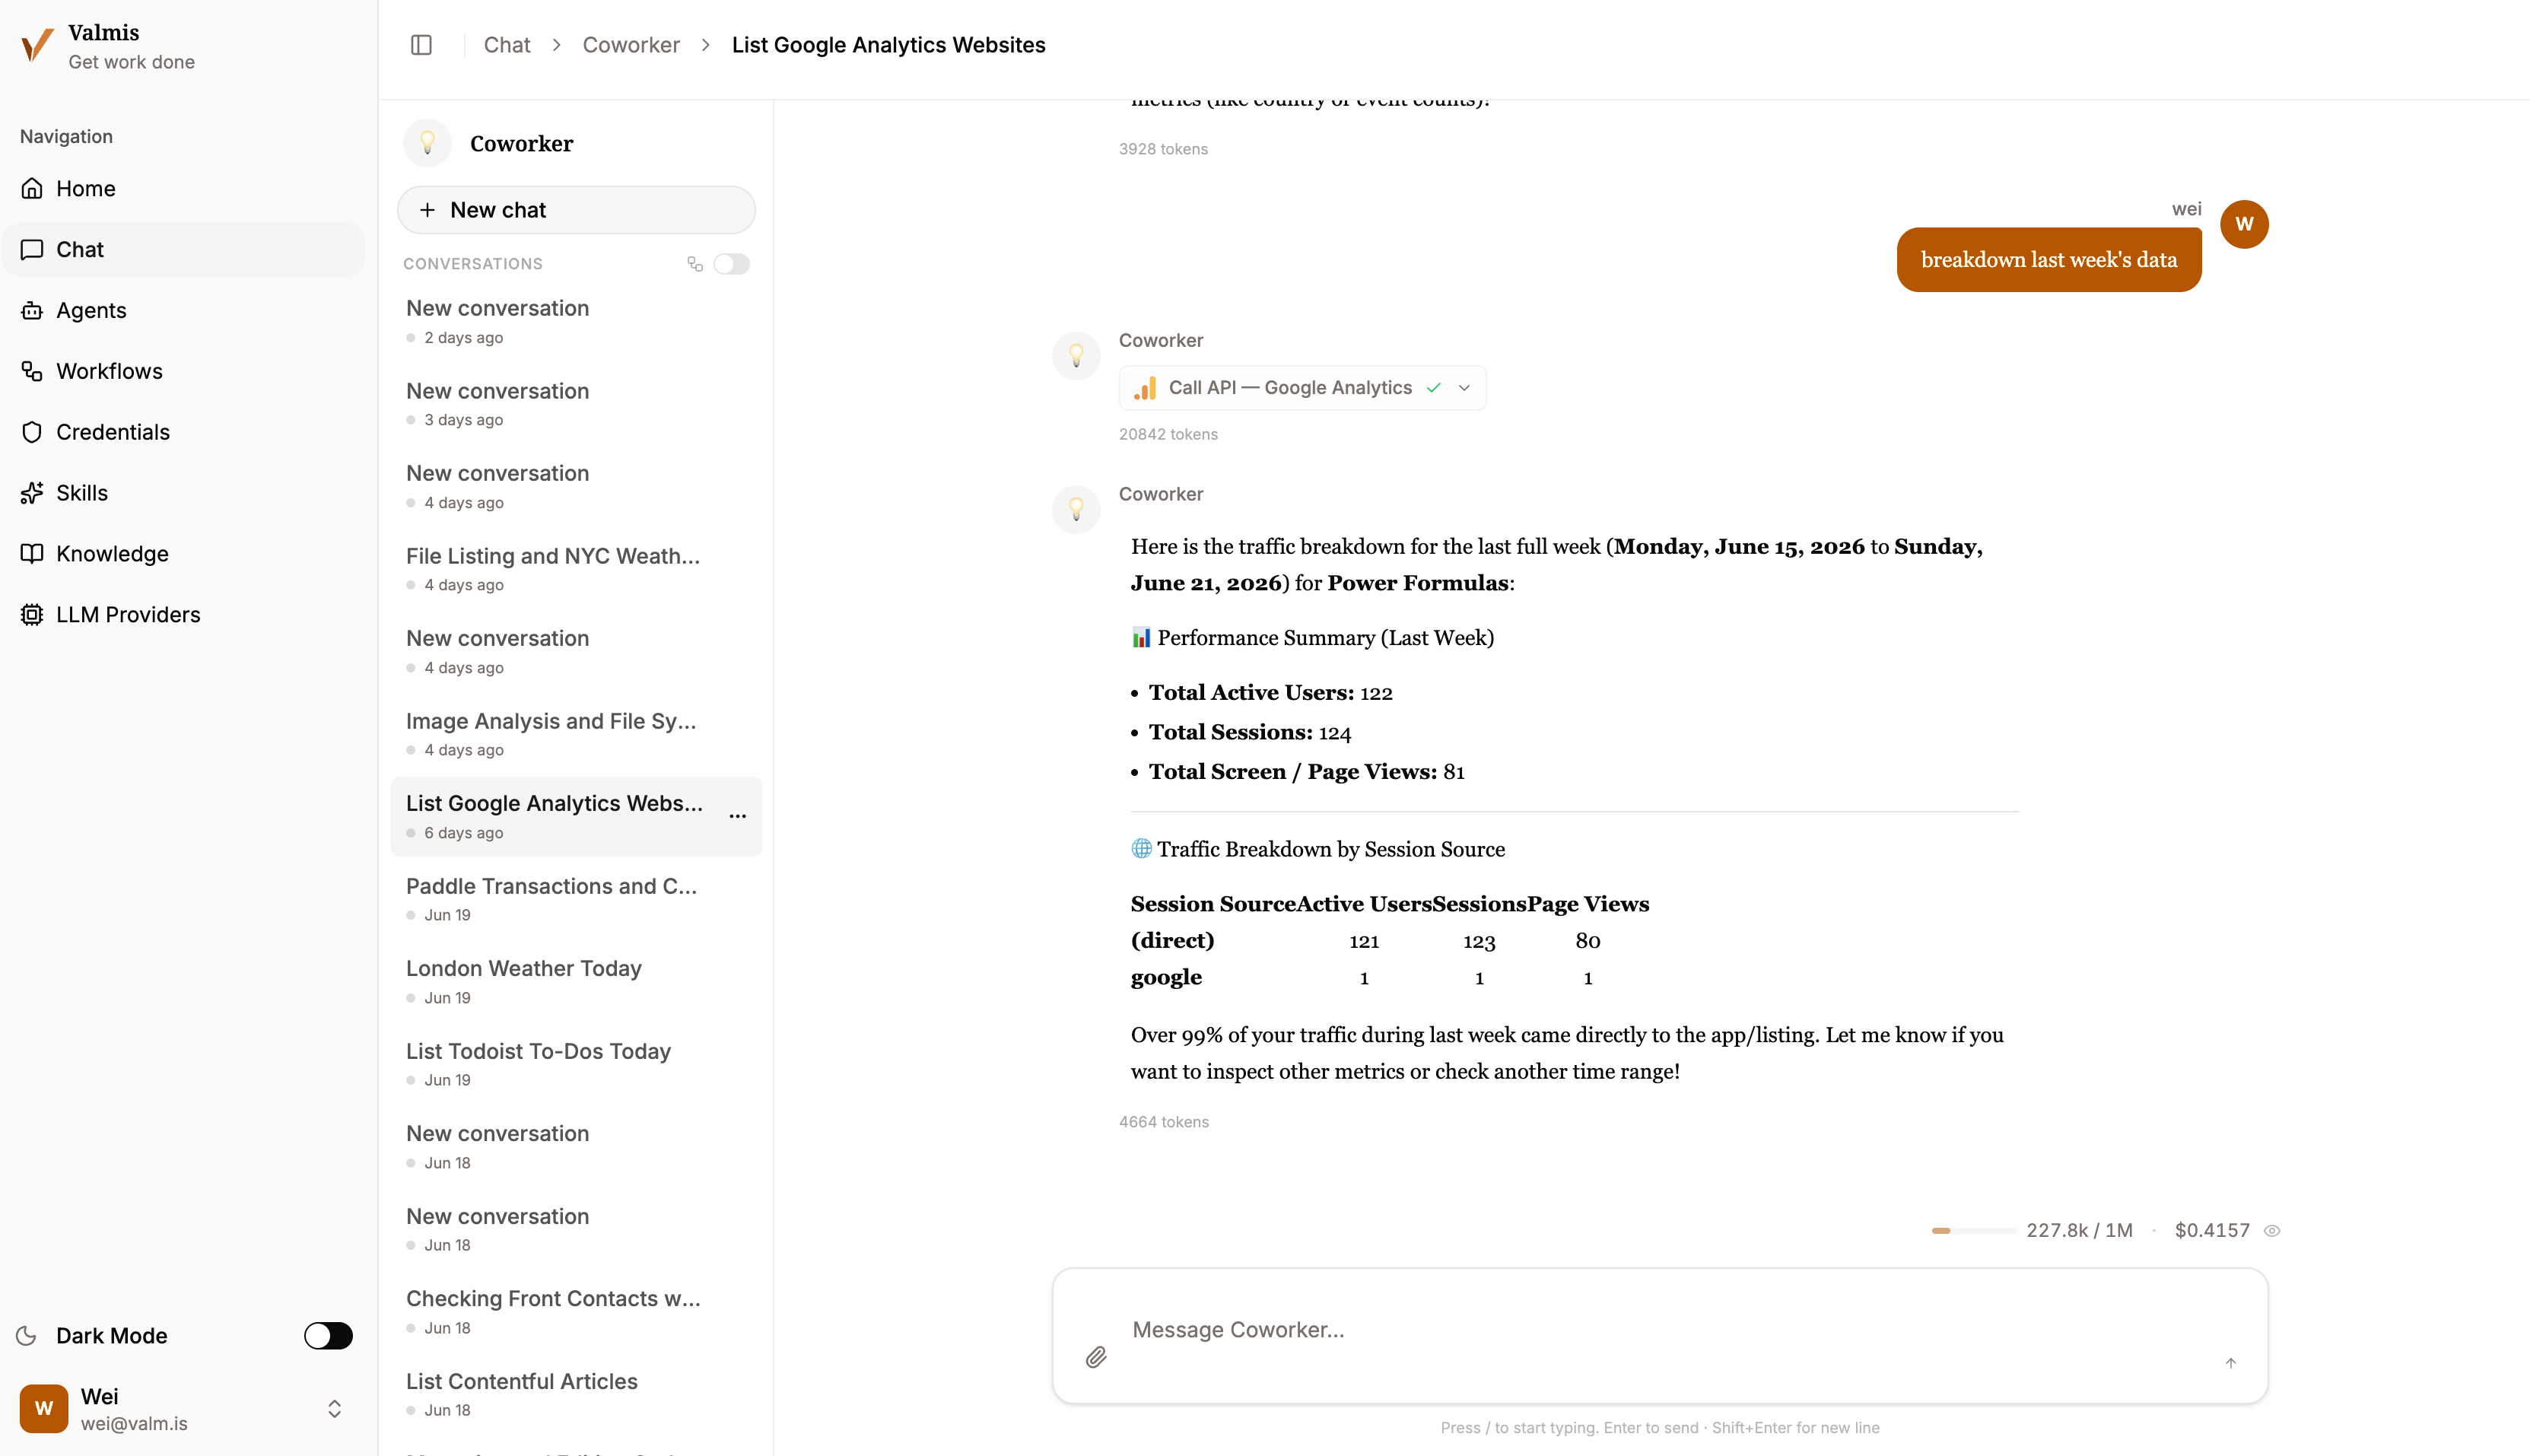
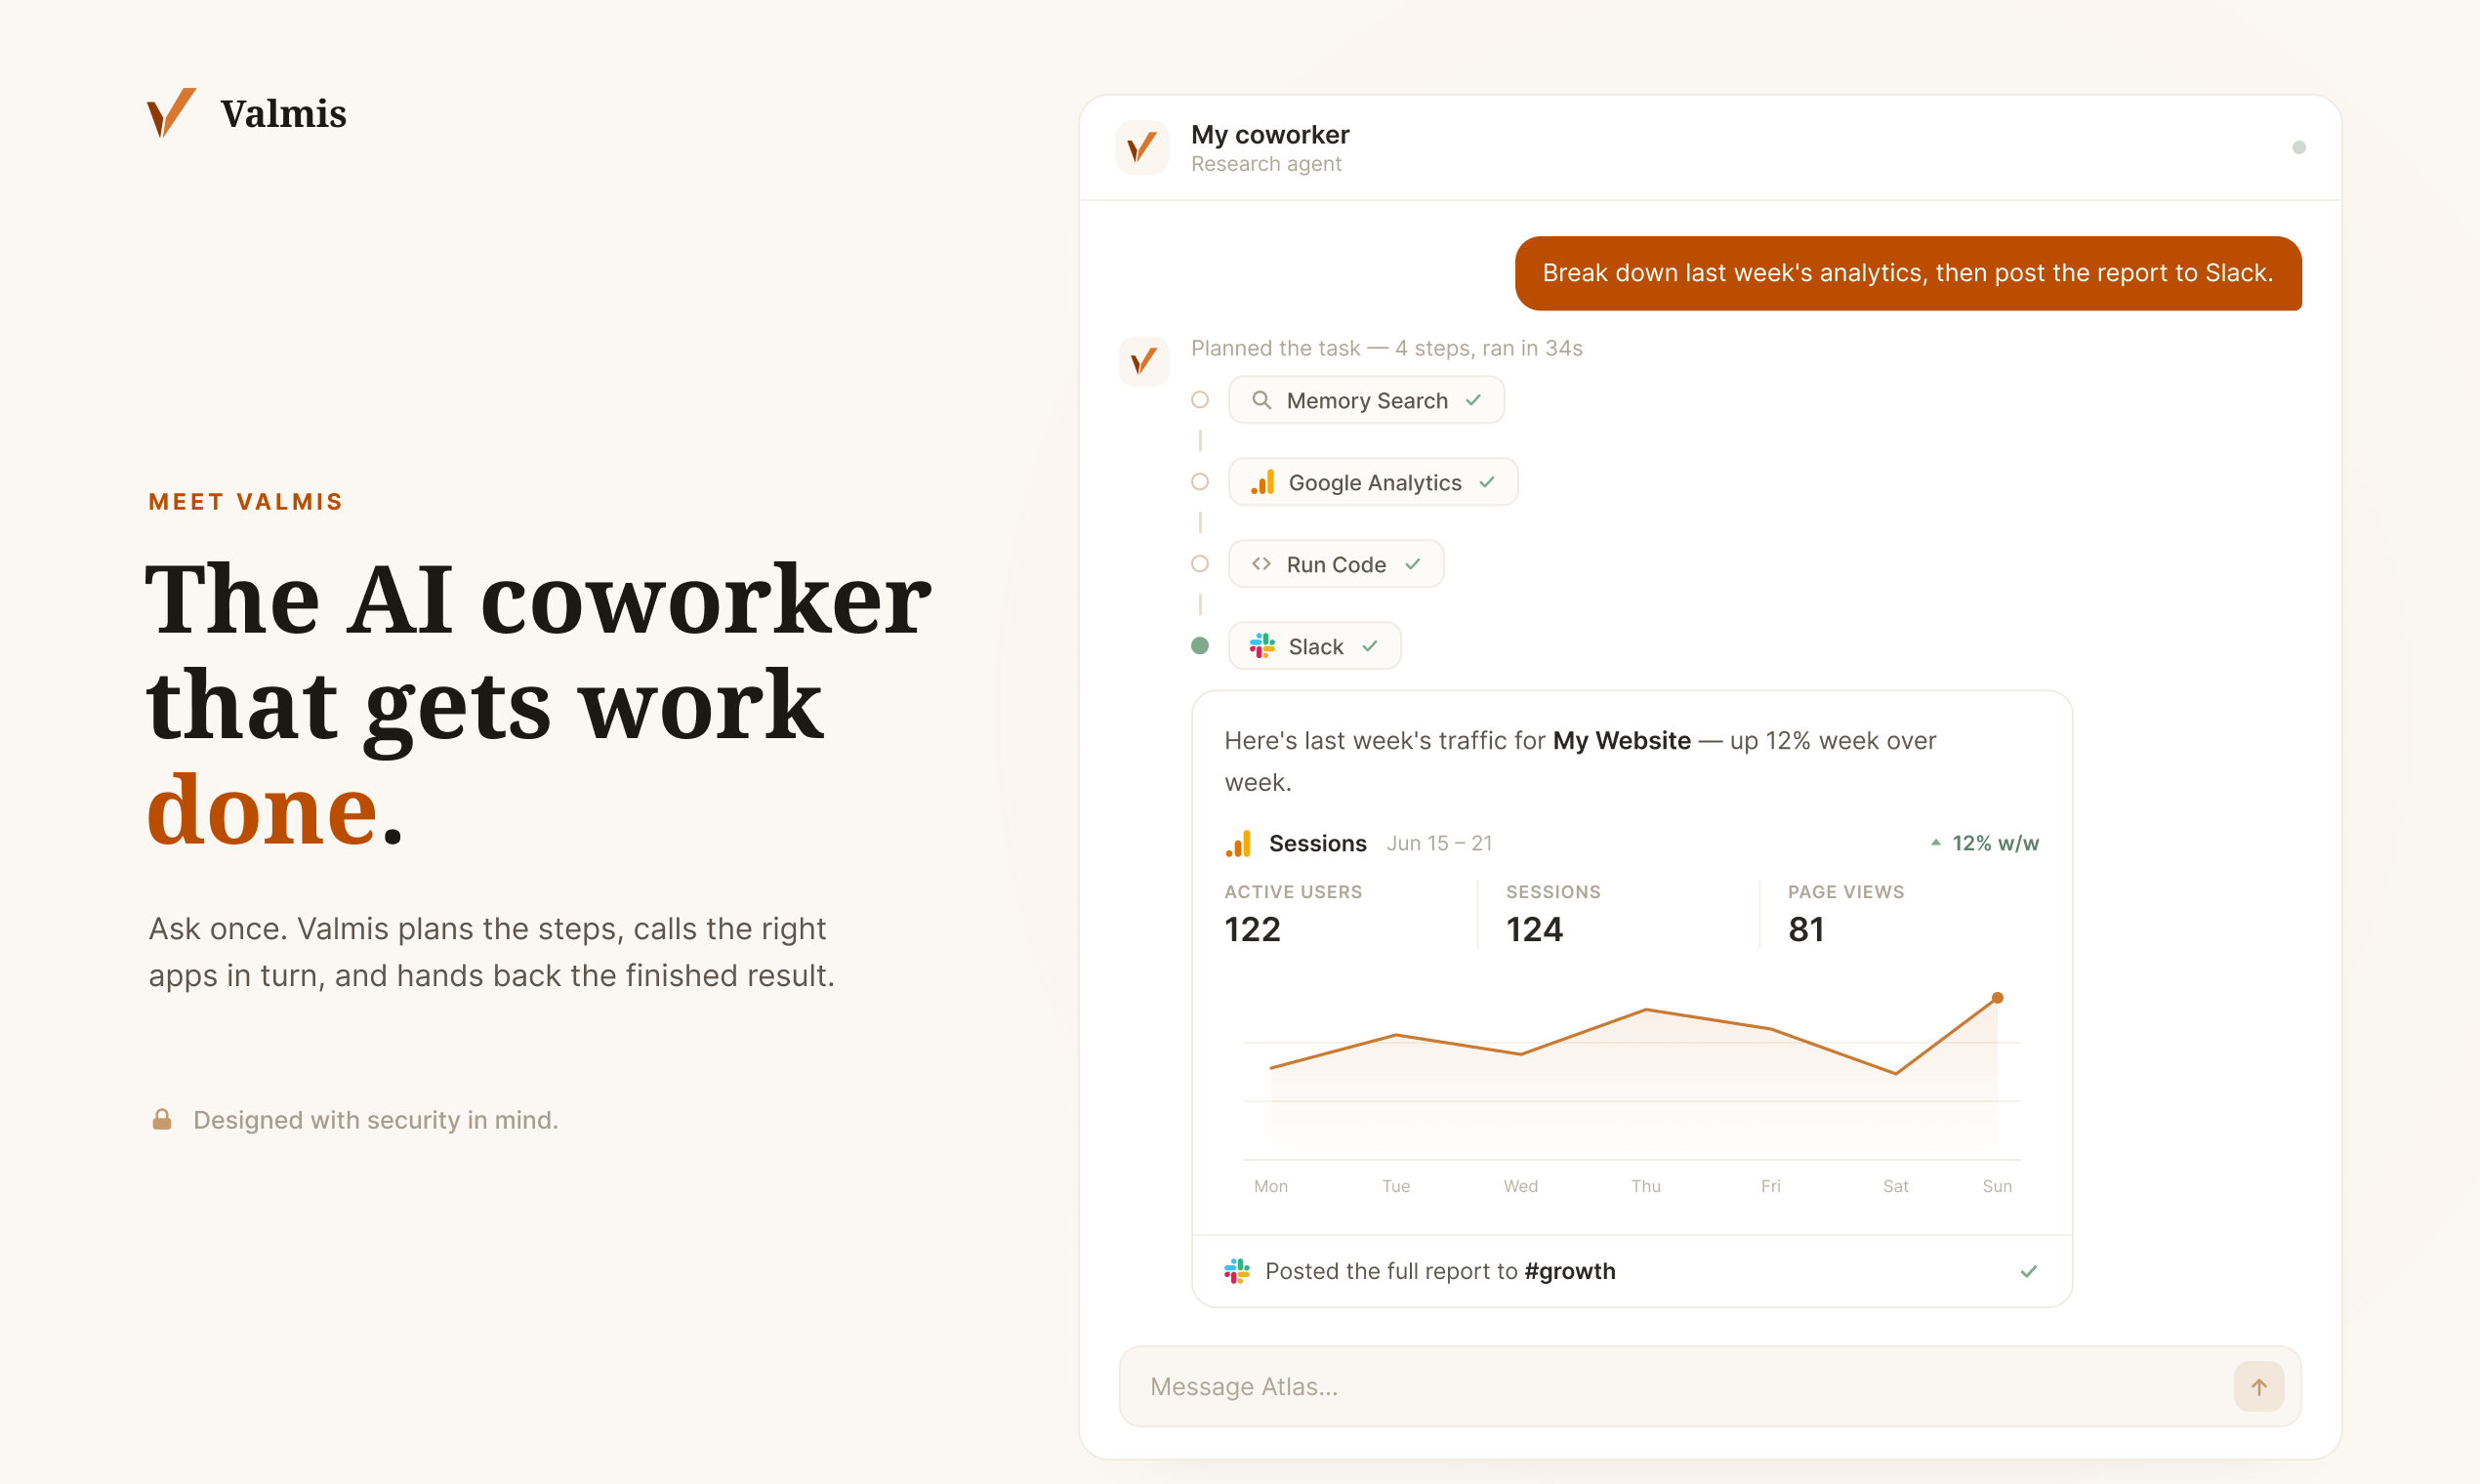
Update readme

diff --git a/README.md b/README.md
@@ -22,7 +22,7 @@ Agents can only work for you when they have access (safely) to your apps. Our pr
 
 Finally, you don't always want to manually ask your agents to work. You can automate multi-step workflows using our automation feature. Each workflow can be triggered by cron, webhooks, app events and it supports conditions and loops. You can create multi-step workflows using our workflow builder UI, or you can simply ask your agent to create one by providing a description.
 
-![alt text](statics/screenshots/workflow-1.png)
+![alt text](statics/screenshots/05-workflow.png)
 
 Then it comes to why the project is called Valmis. Valmis is an Estonian word that means "completed" or "done"(Same in Finnish). This is because the project was inspired and designed in Estonia, Europe's digital nation. It also has the domain name valm.is that uses the Icelandic TLD, so the project is pretty Nordic. (Please do not open issues discussing whether Estonia is Nordic :) )
 